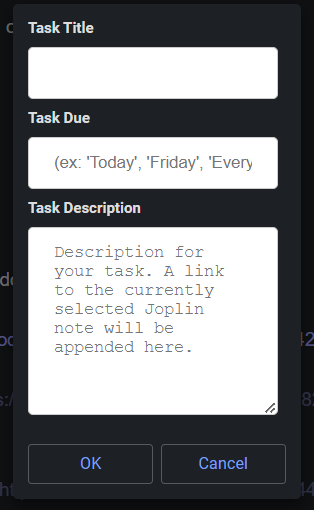
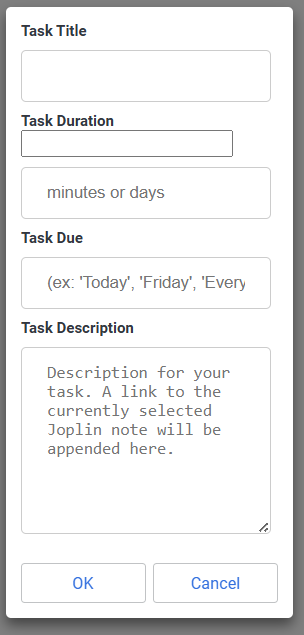
Update to README.md

diff --git a/README.md b/README.md
@@ -32,6 +32,9 @@ I use Todoist to manage all my personal and professional tasks and Joplin to sto
 
     ![new-task-dialog](/screenshots/new-task-dialog.png)
 
+> [!NOTE]
+> You can leave the task duration blank to not set a duration. If you do set a duration then you have to add a time in the "Task Due" field (ex. Today @ 2PM)
+
 ## Changelog
 
 See [CHANGELOG.md](CHANGELOG.md) for a list of changes in each release.
